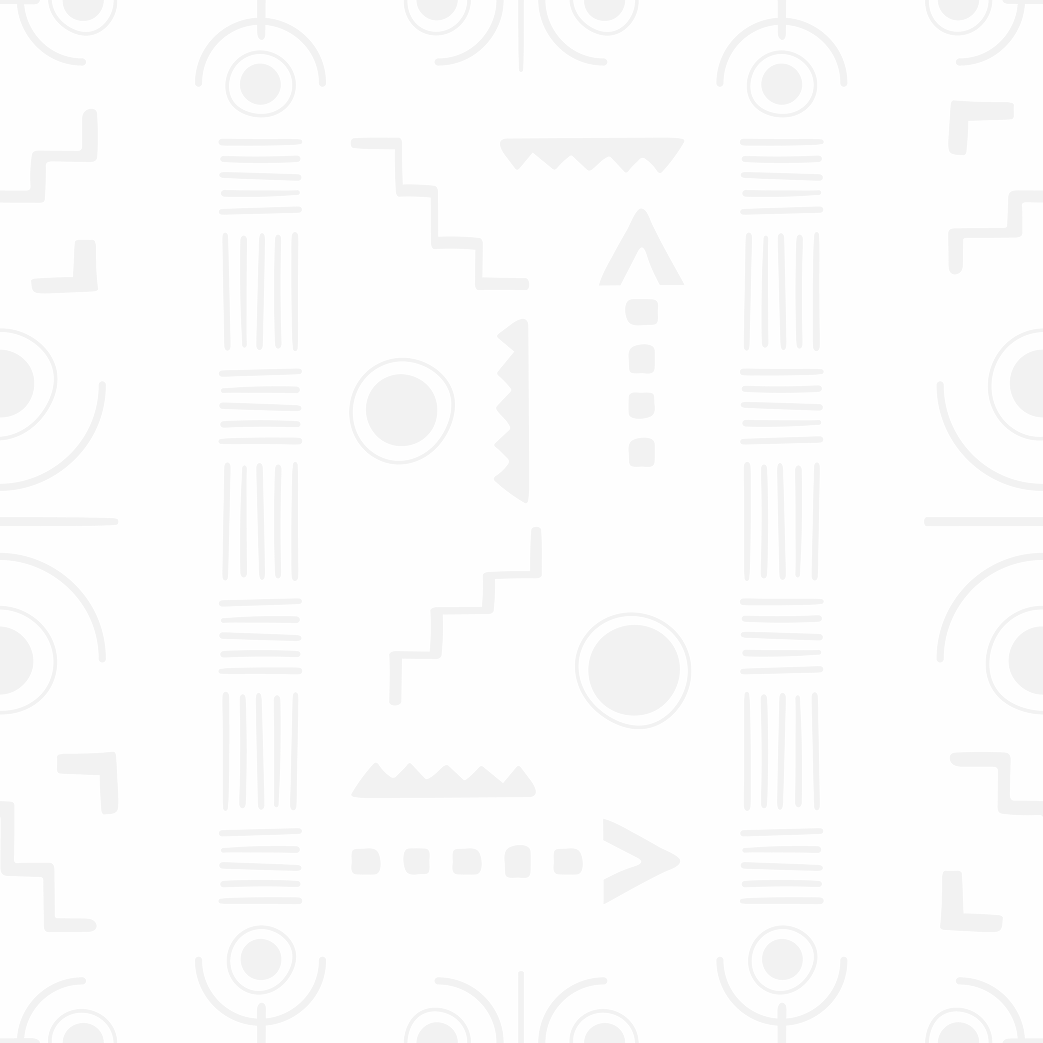
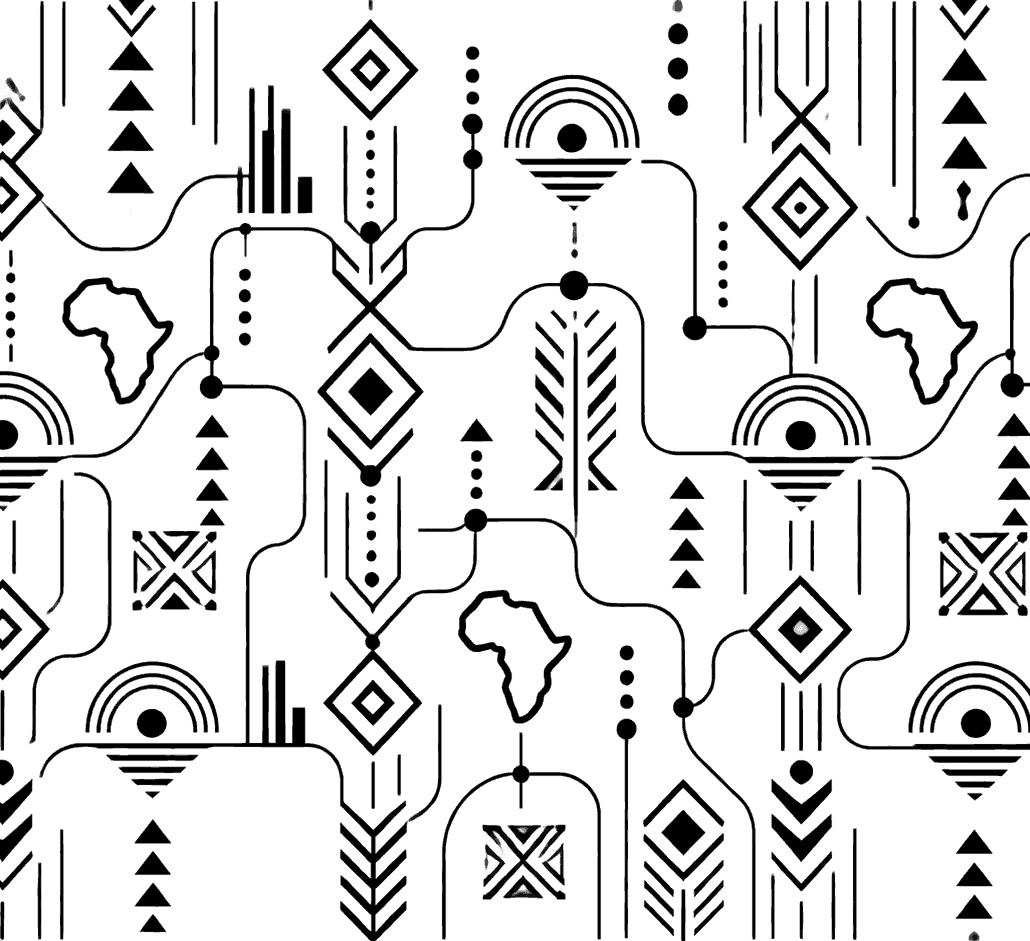
update Motif, update login page

diff --git a/apps/api/api/services/Simulation/simulation-report.template.ts b/apps/api/api/services/Simulation/simulation-report.template.ts
@@ -92,6 +92,13 @@ export const IDEM = {
 export const IDEM_FONTS_URL =
   'https://fonts.googleapis.com/css2?family=JetBrains+Mono:wght@400;500&display=swap';
 
+/**
+ * Force du motif IDEM : l'image est en encre pleine, ses opacités s'expriment
+ * en « ancienne opacité × MOTIF_STRENGTH » (même règle que
+ * `--idem-motif-strength` dans @idem/shared-styles).
+ */
+const MOTIF_STRENGTH = 0.051;
+
 const MONO = "'JetBrains Mono', ui-monospace, monospace";
 
 // ---------------------------------------------------------------------------
@@ -467,7 +474,7 @@ function page(c: Chrome, sectionName: string, body: string): string {
     <div style="position:relative;width:210mm;min-height:297mm;background:${IDEM.surface};padding:26mm 18mm 20mm;font-family:'Vilevile',system-ui,sans-serif;color:${IDEM.ink}">
       ${
         c.motifDataUri
-          ? `<div style="position:absolute;top:0;left:0;width:100%;height:100%;background-image:url('${c.motifDataUri}');background-repeat:repeat;opacity:0.4;z-index:0;pointer-events:none"></div>`
+          ? `<div style="position:absolute;top:0;left:0;width:100%;height:100%;background-image:url('${c.motifDataUri}');background-repeat:repeat;opacity:${0.4 * MOTIF_STRENGTH};z-index:0;pointer-events:none"></div>`
           : ''
       }
       ${chrome(c, sectionName)}
@@ -495,7 +502,7 @@ export function coverSection(
     <div style="position:relative;width:210mm;height:297mm;background:${IDEM.surface};padding:26mm 22mm;font-family:'Vilevile',system-ui,sans-serif;color:${IDEM.ink};display:flex;flex-direction:column;justify-content:space-between">
       ${
         c.motifDataUri
-          ? `<div style="position:absolute;inset:0;background-image:url('${c.motifDataUri}');background-repeat:repeat;background-size:140mm;opacity:0.10;pointer-events:none"></div>`
+          ? `<div style="position:absolute;inset:0;background-image:url('${c.motifDataUri}');background-repeat:repeat;background-size:140mm;opacity:${0.1 * MOTIF_STRENGTH};pointer-events:none"></div>`
           : ''
       }
       <div style="position:absolute;top:0;left:0;right:0;height:2mm;background:linear-gradient(90deg,${IDEM.primary},${IDEM.accent})"></div>

diff --git a/apps/main-dashboard/src/app/modules/auth/pages/login/login.css b/apps/main-dashboard/src/app/modules/auth/pages/login/login.css
@@ -10,8 +10,9 @@
 .login {
   display: grid;
   min-height: 100dvh;
-  background: var(--color-surface-1);
   grid-template-columns: minmax(0, 1fr);
+  /* Blanc franc côté formulaire (sombre en thème sombre). */
+  background: var(--color-surface-1);
 }
 
 @media (min-width: 1024px) {
@@ -31,6 +32,7 @@
   align-items: center;
   justify-content: center;
   padding: 5.5rem 2.5rem 3rem;
+  /* Blanc fumée : un ton sous le blanc du formulaire. */
   background: var(--color-surface-2);
   border-right: 1px solid var(--glass-border-subtle);
   color: var(--color-text-primary);
@@ -74,7 +76,11 @@
   }
 }
 
-/* Le motif IDEM derrière le formulaire. */
+/*
+ * Le motif IDEM sur le blanc du formulaire, à l'intensité du hero de la
+ * landing : ses deux couches globales cumulées (0.3 + 0.1 en clair,
+ * 0.35 + 0.15 en sombre, × la force du motif).
+ */
 .login__side::before {
   content: '';
   position: absolute;
@@ -84,13 +90,12 @@
   background-image: url('/assets/images/motif.png');
   background-repeat: repeat;
   background-position: top left;
-  /* Plus présent qu'ailleurs : ici le motif est le seul décor de la colonne. */
-  opacity: 0.25;
+  opacity: calc(0.4 * var(--idem-motif-strength));
 }
 
 :host-context(.dark) .login__side::before {
   filter: invert(1);
-  opacity: 0.3;
+  opacity: calc(0.5 * var(--idem-motif-strength));
 }
 
 .login__bar {

diff --git a/packages/shared-styles/styles.css b/packages/shared-styles/styles.css
@@ -52,6 +52,19 @@ body {
   background-color: transparent;
 }
 
+/*
+ * Force du motif IDEM (`/assets/images/motif.png`).
+ *
+ * L'image actuelle est dessinée en encre pleine (traits noirs opaques). Le motif
+ * précédent était un gris clair semi-transparent, environ 20 fois plus léger :
+ * chaque opacité de motif du projet s'exprime donc comme « ancienne opacité ×
+ * --idem-motif-strength », ce qui garde exactement la présence d'avant. Pour
+ * renforcer ou alléger le motif partout d'un coup, c'est cette valeur qui change.
+ */
+:root {
+  --idem-motif-strength: 0.051;
+}
+
 body::before {
   content: "";
   position: fixed;
@@ -64,12 +77,12 @@ body::before {
   background-repeat: repeat;
   background-position: top left;
   pointer-events: none;
-  opacity: 0.3;
+  opacity: calc(0.3 * var(--idem-motif-strength));
 }
 
 html.dark body::before {
   filter: invert(1);
-  opacity: 0.35;
+  opacity: calc(0.35 * var(--idem-motif-strength));
 }
 
 /* ============================================================================

diff --git a/apps/main-dashboard/src/app/modules/auth/components/login-card/login-card.html b/apps/main-dashboard/src/app/modules/auth/components/login-card/login-card.html
@@ -16,15 +16,18 @@
         @for (provider of providers(); track provider.id) {
           <button
             type="button"
-            class="outer-button w-full justify-center"
+            class="outer-button login-card__provider w-full justify-center"
             [disabled]="busy() !== null"
             (click)="continueWith(provider.id)"
           >
-            @if (busy() === provider.id) {
-              <idem-loader size="xs" />
-            } @else {
-              <i [class]="provider.icon" aria-hidden="true"></i>
-            }
+            <!-- Icône à position fixe : alignée d'un bouton à l'autre, quel que soit le libellé -->
+            <span class="login-card__provider-icon" aria-hidden="true">
+              @if (busy() === provider.id) {
+                <idem-loader size="xs" />
+              } @else {
+                <i [class]="provider.icon"></i>
+              }
+            </span>
             {{ 'auth.continueWith' | translate: { provider: provider.label } }}
           </button>
         }

diff --git a/apps/main-dashboard/src/app/modules/auth/components/login-card/login-card.css b/apps/main-dashboard/src/app/modules/auth/components/login-card/login-card.css
@@ -16,6 +16,29 @@
   border-top: 1px solid var(--glass-border-subtle);
 }
 
+/*
+ * Boutons des fournisseurs : l'icône est sortie du flux et calée à gauche,
+ * le libellé reste centré. Les icônes s'alignent donc en colonne et le texte
+ * garde le même axe dans tous les boutons.
+ */
+.login-card__provider {
+  position: relative;
+  padding-inline: 3rem;
+}
+
+.login-card__provider-icon {
+  position: absolute;
+  left: 1.25rem;
+  top: 50%;
+  display: inline-flex;
+  align-items: center;
+  justify-content: center;
+  width: 1.25rem;
+  height: 1.25rem;
+  transform: translateY(-50%);
+  font-size: 1.125rem;
+}
+
 .login-card__error {
   color: var(--color-danger);
 }

diff --git a/apps/main-dashboard/src/app/app.html b/apps/main-dashboard/src/app/app.html
@@ -1,5 +1,5 @@
 <!-- Motif background for all pages -->
-<div class="fixed inset-0 z-[-1] pointer-events-none opacity-10 dark:invert dark:opacity-15" style="background-image: url('/assets/images/motif.png'); background-repeat: repeat; background-position: top left;"></div>
+<div class="fixed inset-0 z-[-1] pointer-events-none opacity-[calc(0.1*var(--idem-motif-strength))] dark:invert dark:opacity-[calc(0.15*var(--idem-motif-strength))]" style="background-image: url('/assets/images/motif.png'); background-repeat: repeat; background-position: top left;"></div>
 
 @if (currentLayout$ | async; as layout) {
   @if (layout === 'dashboard') {

diff --git a/apps/landing/src/app/app.html b/apps/landing/src/app/app.html
@@ -1,5 +1,5 @@
 <!-- Motif background for all pages -->
-<div class="fixed inset-0 z-[-1] pointer-events-none opacity-10 dark:invert dark:opacity-15" style="background-image: url('/assets/images/motif.png'); background-repeat: repeat; background-position: top left;"></div>
+<div class="fixed inset-0 z-[-1] pointer-events-none opacity-[calc(0.1*var(--idem-motif-strength))] dark:invert dark:opacity-[calc(0.15*var(--idem-motif-strength))]" style="background-image: url('/assets/images/motif.png'); background-repeat: repeat; background-position: top left;"></div>
 
 @if (isInitialLoading()) {
   <app-splash-screen></app-splash-screen>

diff --git a/apps/appgen/apps/we-dev-client/global.css b/apps/appgen/apps/we-dev-client/global.css
@@ -218,7 +218,7 @@ textarea,
   background-position: top left;
   /* Mêmes valeurs que `body::before` dans @idem/shared-styles : le motif doit
      avoir exactement la même présence d'une application Idem à l'autre. */
-  opacity: 0.3;
+  opacity: calc(0.3 * var(--idem-motif-strength, 0.051));
   pointer-events: none;
 }
 
@@ -226,7 +226,7 @@ textarea,
    paquet partagé. */
 .dark .motif-surface::before {
   filter: invert(1);
-  opacity: 0.35;
+  opacity: calc(0.35 * var(--idem-motif-strength, 0.051));
 }
 
 /* Les panneaux posés dans une surface à motif ne repeignent pas leur fond,

diff --git a/apps/landing/src/app/components/hero/hero.html b/apps/landing/src/app/components/hero/hero.html
@@ -3,15 +3,7 @@
   <div
     class="absolute bottom-0 right-0 w-[80%] h-[60%] md:w-[60%] md:h-[80%] opacity-10 md:opacity-15 pointer-events-none"
   >
-    <img
-      src="/assets/images/home/hero1.webp"
-      i18n-alt="@@hero.alt.projectBuilder"
-      alt="Idem AI-powered project builder interface showing logo generation, business plan creation, and web application development features"
-      loading="eager"
-      width="600"
-      height="400"
-      class="w-full h-full object-contain object-right"
-    />
+
   </div>
 
   <!-- Main Content - Centered vertically -->

diff --git a/apps/landing/src/server.ts b/apps/landing/src/server.ts
@@ -10,7 +10,9 @@ import { join } from 'node:path';
 const browserDistFolder = join(import.meta.dirname, '../browser');
 
 const app = express();
-const angularApp = new AngularNodeAppEngine();
+const angularApp = new AngularNodeAppEngine({
+  allowedHosts: ['.localhost', '0.0.0.0'],
+});
 
 /**
  * Example Express Rest API endpoints can be defined here.
